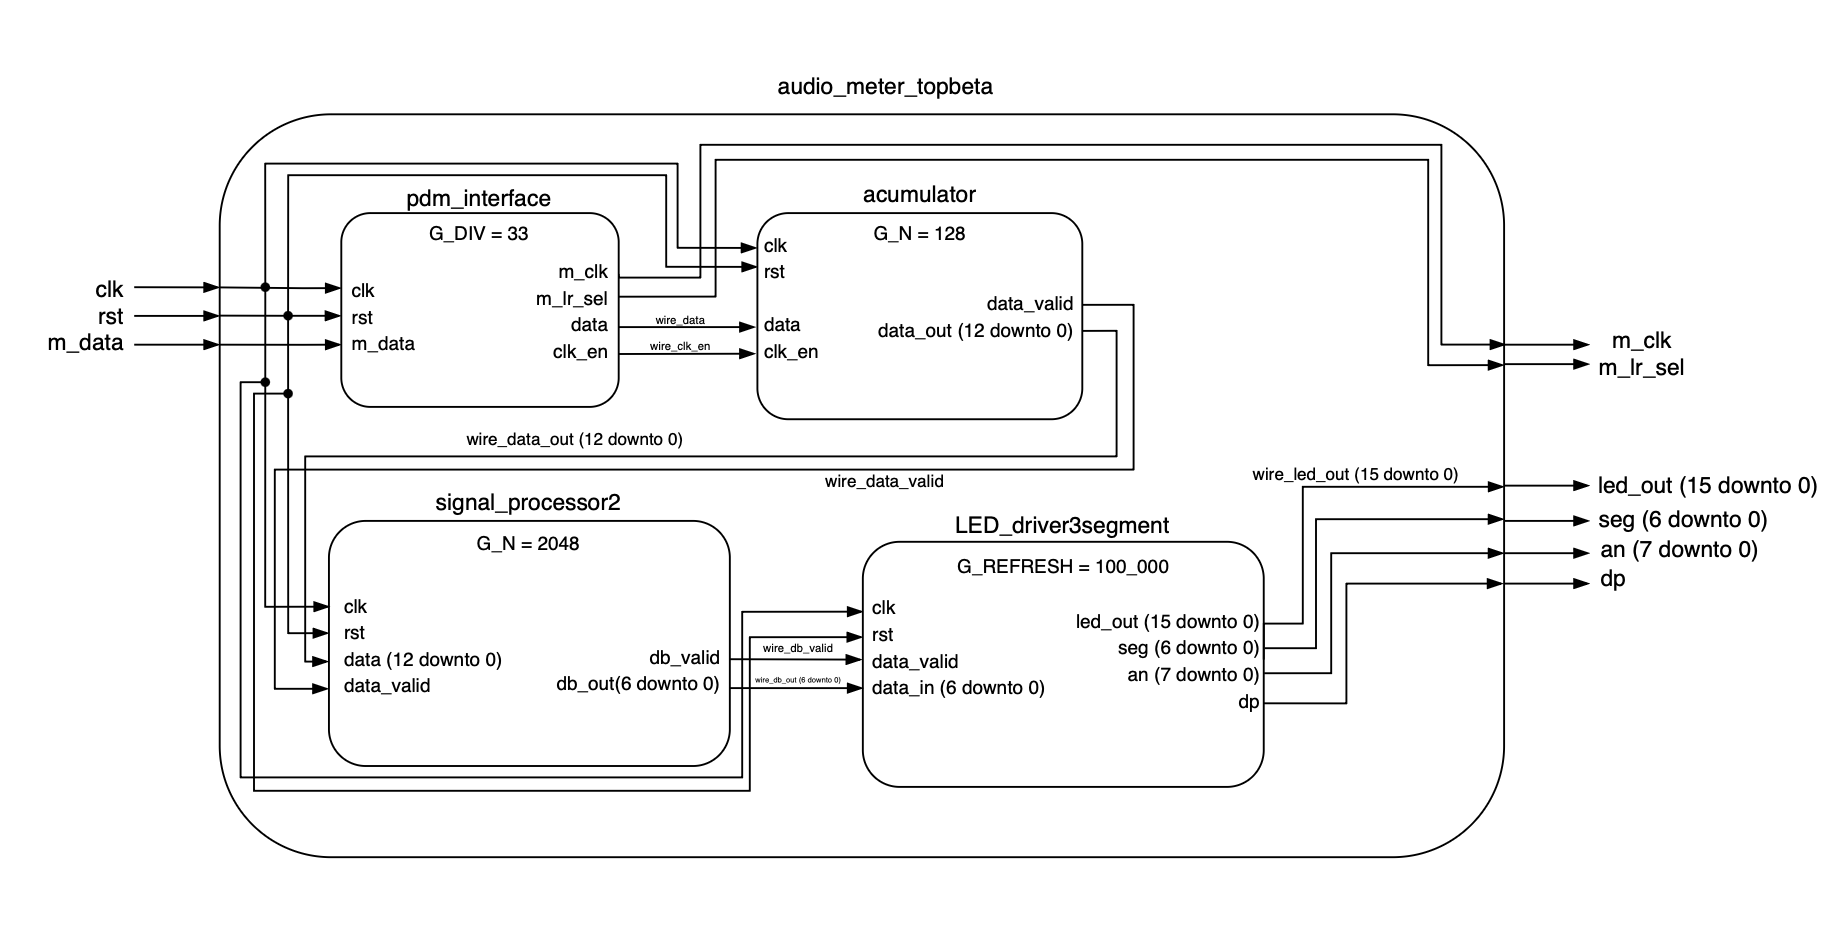
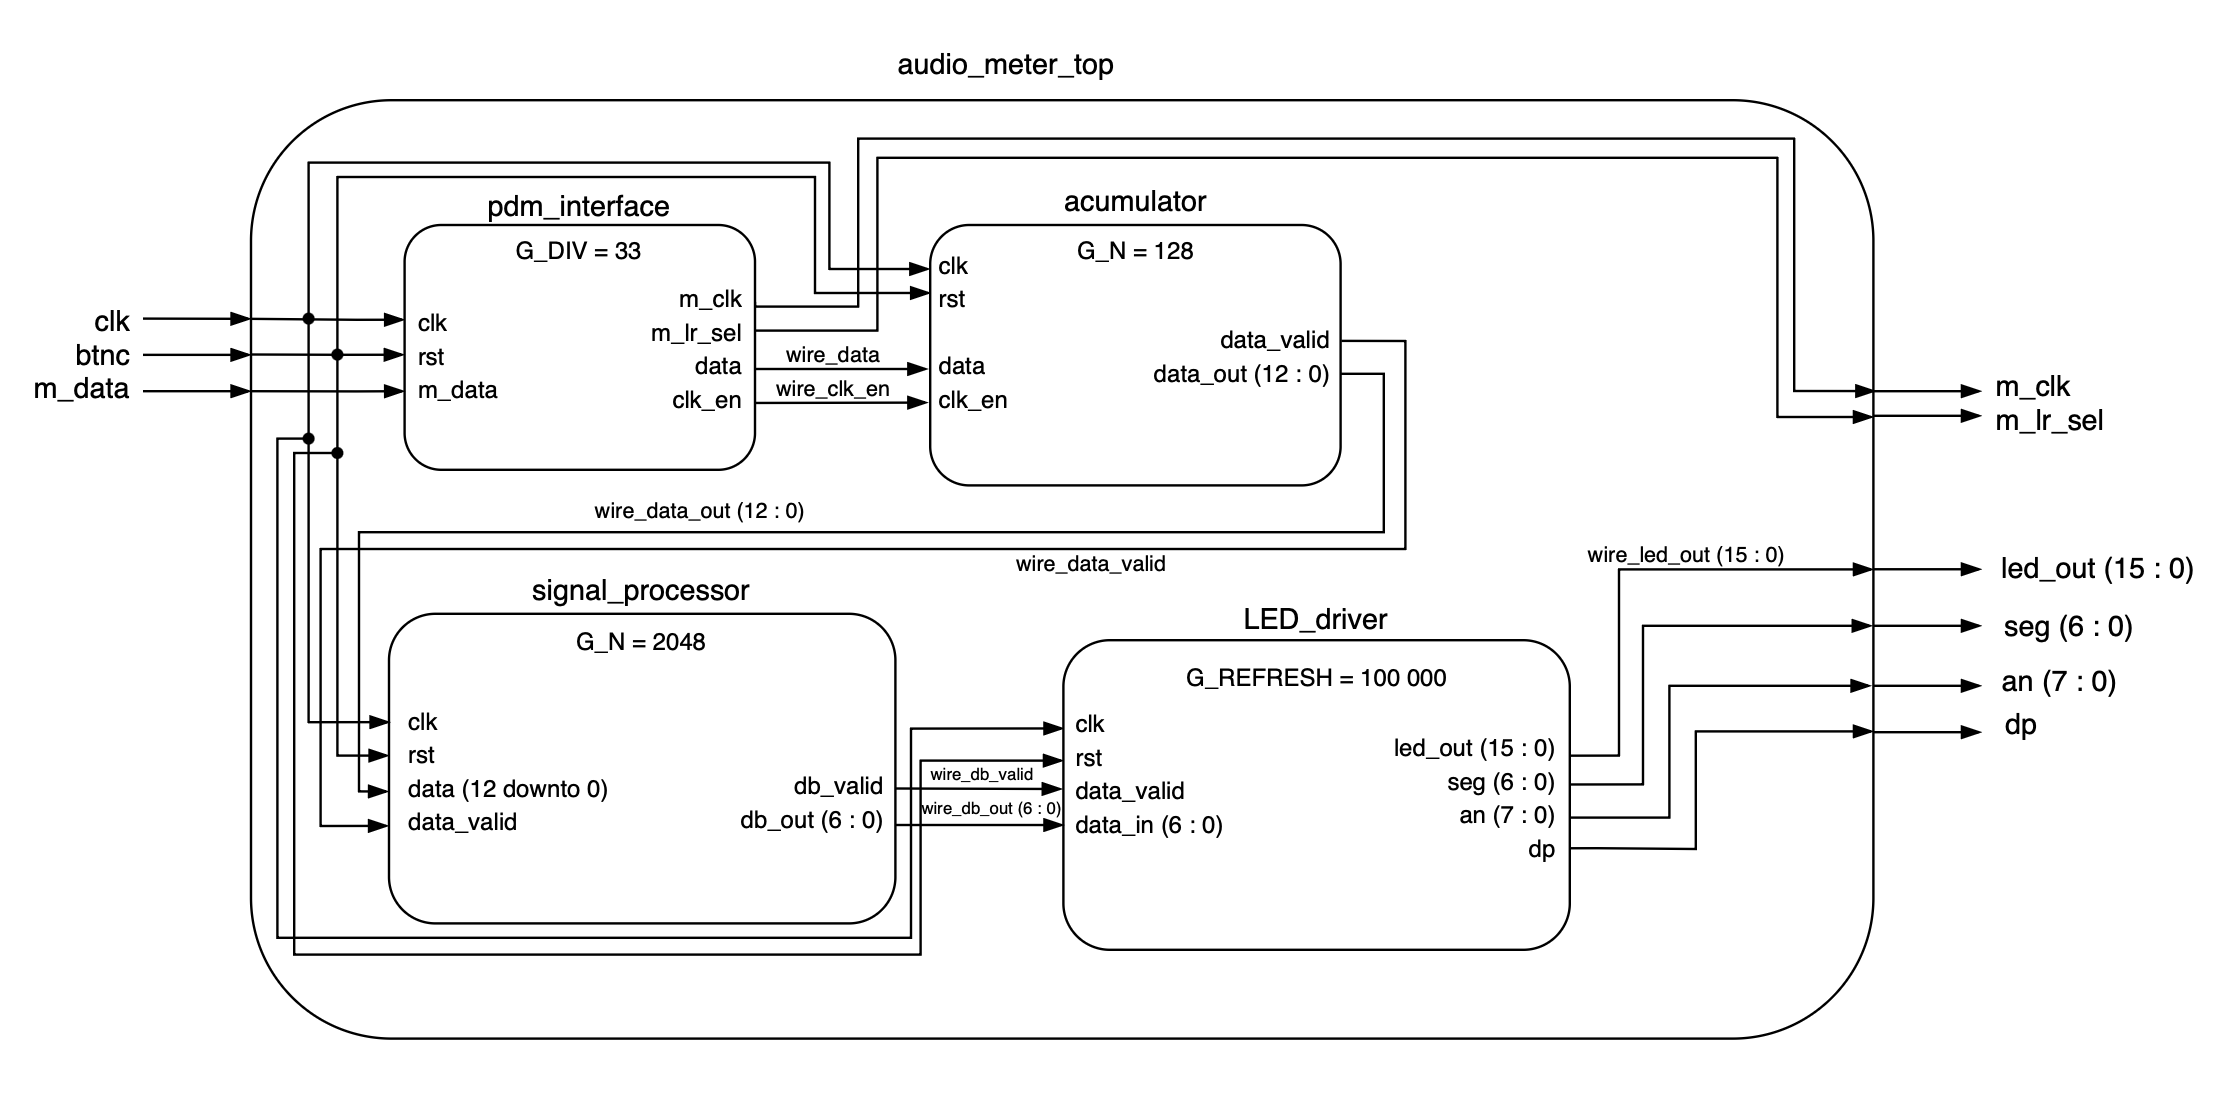
uprava schematu a readme

Changed region(s): [[0.0, 0.0307, 0.9935, 0.9503]]

diff --git a/README.md b/README.md
@@ -27,7 +27,7 @@ The system is controlled using the integrated buttons and clock signal on the Ne
 * **`rst` (`BTNC`)** - Resets the system to its default state, pin N17.
 
 **Microphone:**
-* **`mic_data_in`** - PDM data input from the onboard ADMP421 microphone, pin H5.
+* **`m_data`** - PDM data input from the onboard ADMP421 microphone, pin H5.
 
 # Outputs
 
@@ -45,8 +45,8 @@ The measured sound level values are output to the following peripherals:
 * **`LD0–LD15`** - Visual indication of the sound level. No LEDs are lit during silence, all LEDs are lit at maximum volume.
 
 **Microphone control outputs:**
-* **`mic_clk_out`** - PDM clock signal for the ADMP421 microphone (~3.03 MHz), pin `J5`.
-* **`mic_lr_sel`** - Microphone channel select, permanently set to `'0'` (left channel), pin `F5`.
+* **`m_clk`** - PDM clock signal for the ADMP421 microphone (~3.03 MHz), pin `J5`.
+* **`m_lr_sel`** - Microphone channel select, permanently set to `'0'` (left channel), pin `F5`.
 
 # Simulation Results
 Showcase of the simulations for each individual module used in the project.
